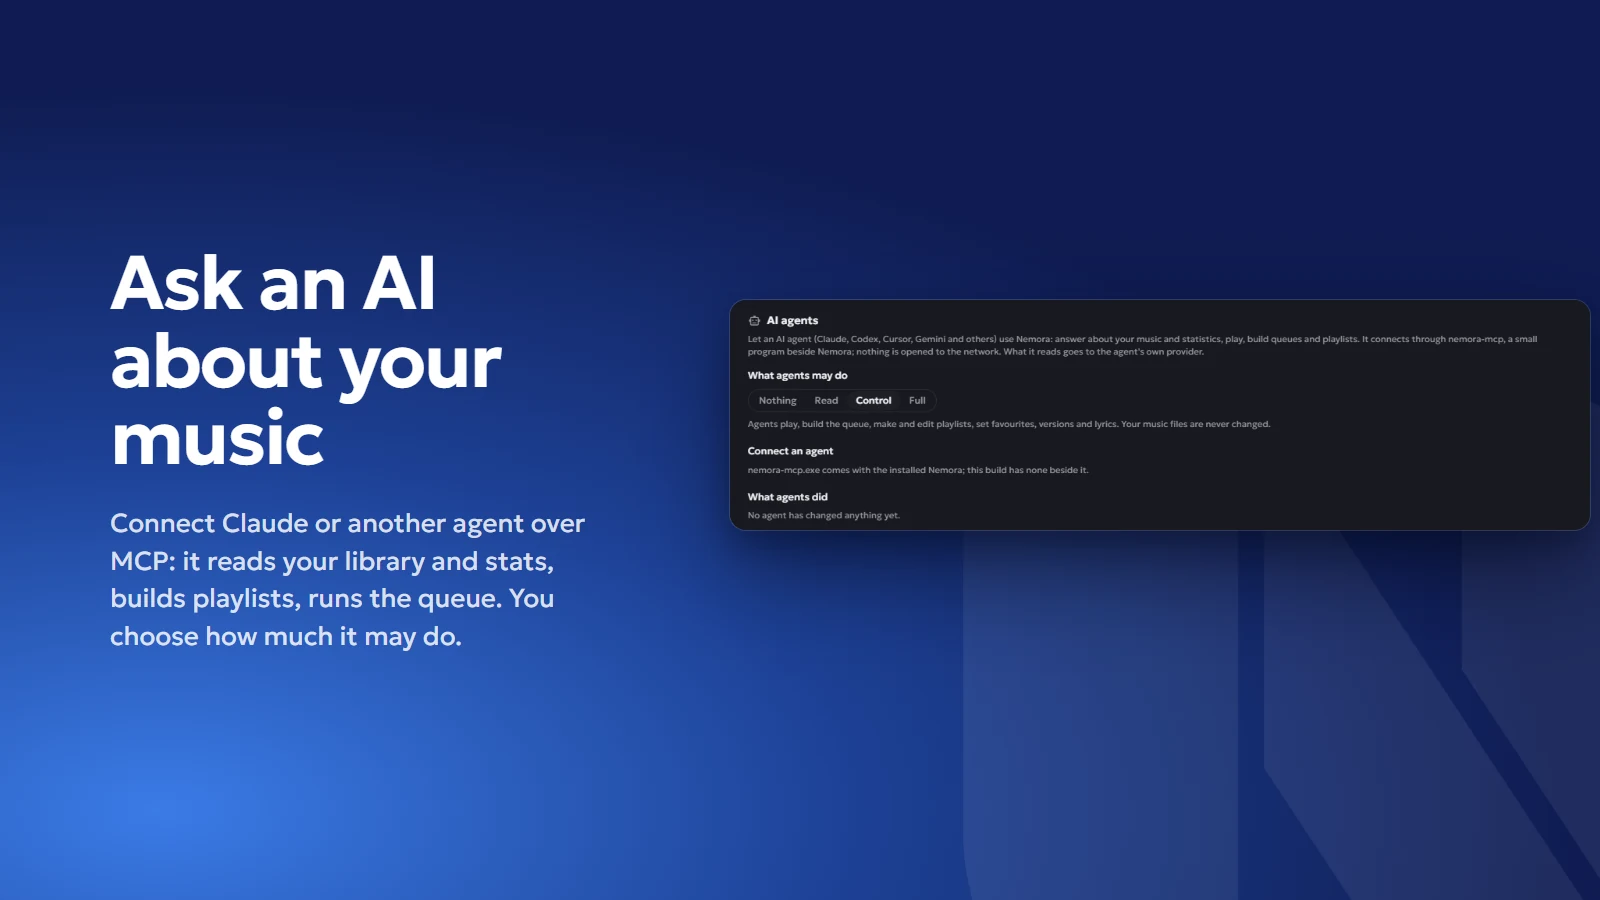
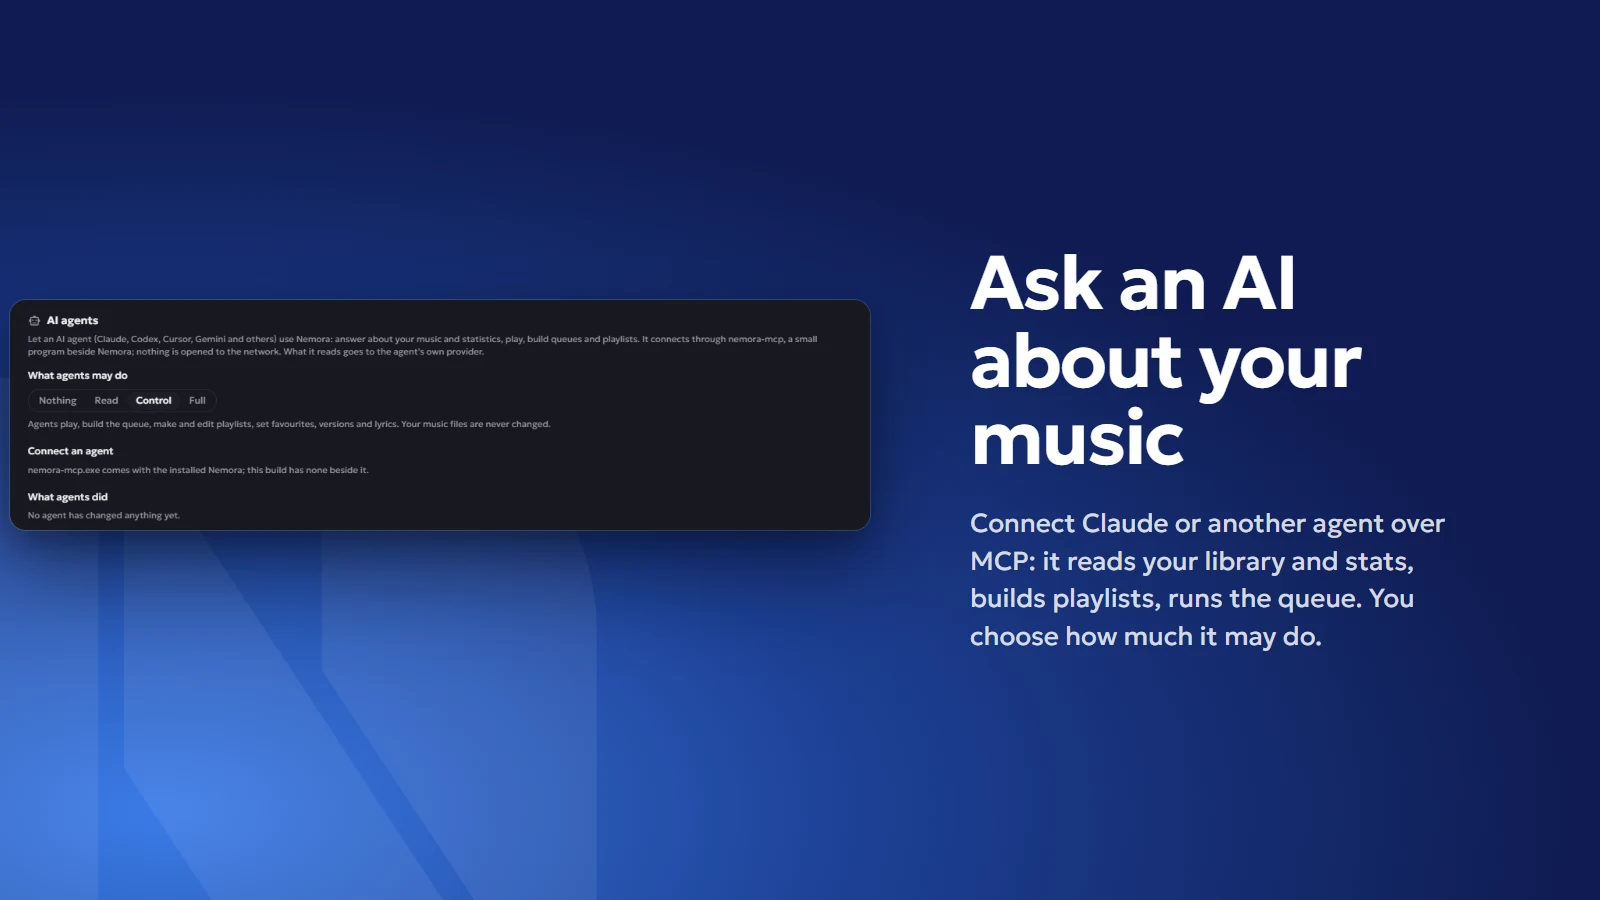
README: cards in the order tierlists, slowed + reverb, Smart Shuffle, stats, duels, then the rest (alternating sides, mirrored where needed); duels are a little bit of fun, the sound panel is whole, full screen loses its last sentence

Changed region(s): [[0.0, 0.28, 1.0, 0.7156]]

diff --git a/tools/readme/compose.py b/tools/readme/compose.py
@@ -38,7 +38,7 @@ CARDS = [
     dict(key="duels", bg="deep", side="left",
          shots=[("34-duel", "dark", (420, 120, 1180, 780), (760, 120, 600)), ("33-songguessr", "dark", (542, 85, 1058, 815), (1150, 250, 380))],
          title="Duels and<br>Song Guessr",
-         text="Pick the better of two songs and an ELO rating sorts your library by what you really choose. Or name a track from a tenth of a second."),
+         text="A little bit of fun with your own library. Pick the better of two songs and an ELO rating sorts it by what you really choose; or name a track from a tenth of a second."),
     dict(key="stats", bg="sky", side="right",
          shots=[("36t-stats-insights", "dark", (205, 40, 1600, 720), (60, 210, 840))],
          title="Know how<br>you listen",
@@ -48,7 +48,7 @@ CARDS = [
          title="Your taste,<br>as a map",
          text="The whole library laid out by how you listen: islands of songs that belong together. Pick an area and play it."),
     dict(key="sound", bg="night", side="right",
-         shots=[("36k-sound-panel", "dark", None, (40, 170, 780)), ("36k-sound-panel", "dark", (1065, 365, 1400, 812), (560, 260, 340))],
+         shots=[("36k-sound-panel", "dark", None, (40, 170, 780)), ("36k-sound-panel", "dark", (1063, 363, 1400, 838), (560, 240, 340))],
          title="Slowed<br>+ reverb",
          text="Speed, pitch and a real reverb in the audio engine. Keep a sound as a version of the song, or switch the song itself to it."),
     dict(key="search", bg="dawn", side="left",
@@ -58,7 +58,7 @@ CARDS = [
     dict(key="fullscreen", bg="ink", side="right",
          shots=[("36g-full-screen-bars", "dark", None, (60, 190, 840))],
          title="Full screen,<br>alive",
-         text="Synced lyrics, the cover breathing with the music, a live equalizer under it. Every visual is off until you turn it on."),
+         text="Synced lyrics, the cover breathing with the music, a live equalizer under it."),
     dict(key="agents", bg="deep", side="left",
          shots=[("36w-settings-agents", "dark", (458, 55, 1560, 350), (730, 300, 860))],
          title="Ask an AI<br>about your music",
@@ -69,6 +69,17 @@ CARDS = [
          text="Light and dark themes, eight accent colours, five frame shades, thirteen languages."),
 ]
 HERO = dict(key="hero", shots=[("36m-home-today", "dark", None, (820, 120, 1060)), ("08-mini-player", "dark", None, (700, 560, 420))])
+# Order in the README; the cards alternate sides from the first, mirrored where they were drawn the other way.
+ORDER = ["tierlists", "sound", "shuffle", "stats", "duels", "tastemap", "search", "fullscreen", "agents", "yours"]
+
+
+def oriented(c, side):
+    if c["side"] == side:
+        return c
+    shots = [(i, t, cr, (W - x - w, y, w)) for i, t, cr, (x, y, w) in c["shots"]]
+    return {**c, "side": side, "shots": shots}
+
+
 SHOTS = sorted({s[0] for c in CARDS + [HERO] for s in c["shots"]})
 
 
@@ -137,7 +148,9 @@ def main():
     from PIL import Image
     OUT.mkdir(parents=True, exist_ok=True)
     tmp = OUT / "_page.html"
-    jobs = [("hero", hero_html, HERO)] + [(c["key"], (lambda c: lambda s: card_html(c, s))(c), c) for c in CARDS]
+    by_key = {c["key"]: c for c in CARDS}
+    cards = [oriented(by_key[k], "right" if i % 2 == 0 else "left") for i, k in enumerate(ORDER)]
+    jobs = [("hero", hero_html, HERO)] + [(c["key"], (lambda c: lambda s: card_html(c, s))(c), c) for c in cards]
     with sync_playwright() as p:
         try:
             br = p.chromium.launch(channel="msedge", headless=True)

diff --git a/README.md b/README.md
@@ -21,17 +21,17 @@ Nemora plays the music on your own computer: your files, your folders, your tags
 
 ## Features
 
-<img src="resources/readme/shuffle.webp" alt="Smart Shuffle that explains itself" width="100%">
-
 <img src="resources/readme/tierlists.webp" alt="Rank your music in tierlists" width="100%">
 
-<img src="resources/readme/duels.webp" alt="Duels and Song Guessr" width="100%">
+<img src="resources/readme/sound.webp" alt="Slowed and reverb" width="100%">
+
+<img src="resources/readme/shuffle.webp" alt="Smart Shuffle that explains itself" width="100%">
 
 <img src="resources/readme/stats.webp" alt="Statistics and insights" width="100%">
 
-<img src="resources/readme/tastemap.webp" alt="The taste map" width="100%">
+<img src="resources/readme/duels.webp" alt="Duels and Song Guessr" width="100%">
 
-<img src="resources/readme/sound.webp" alt="Slowed and reverb" width="100%">
+<img src="resources/readme/tastemap.webp" alt="The taste map" width="100%">
 
 <img src="resources/readme/search.webp" alt="Search" width="100%">
 
